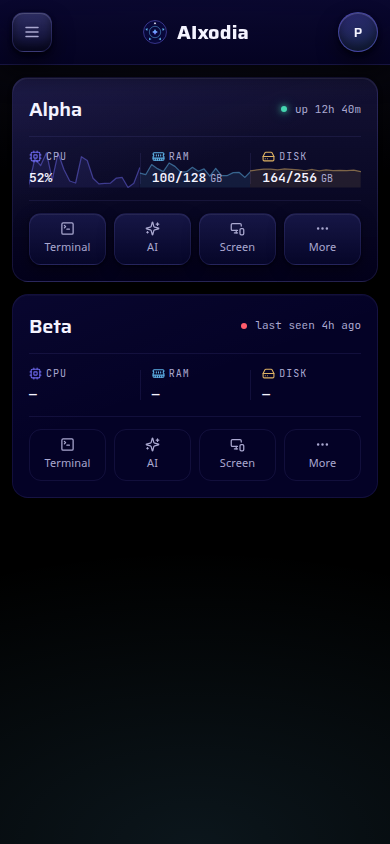
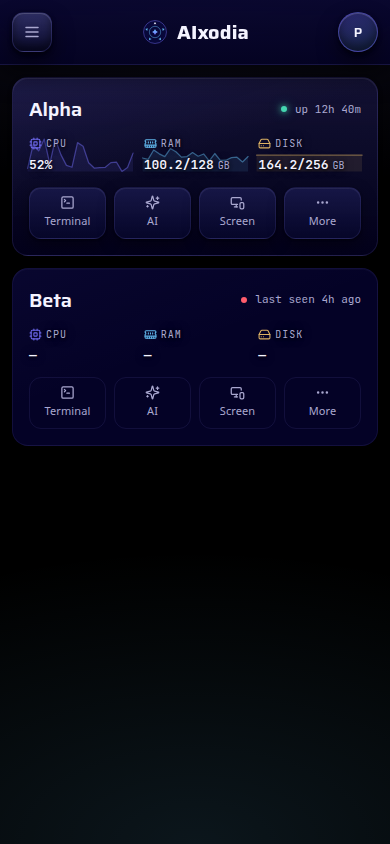
Bleed the spark sideways, not vertically
Swap the bleed axis: the chart now reaches 6px past the text on the left and right
while keeping the cell's full height, so the line overshoots the letters across
but not above or below. The geometry audit flags the 6px spill by design; it stops
inside the card's padding.

diff --git a/src/mock/mock.css b/src/mock/mock.css
@@ -386,7 +386,7 @@ button:disabled { cursor: not-allowed; }
 /* --------------------------------------------------------------- metrics */
 
 .metrics {
-  --spark-bleed: 10px;
+  --spark-bleed: 6px;
   display: grid;
   /* Equal thirds: a reading that is wider than its panel is worse than one a
      little smaller, so the value below scales with the viewport instead. */
@@ -412,12 +412,12 @@ button:disabled { cursor: not-allowed; }
    is decoration: never clickable, never in the accessibility tree. */
 .metric-spark {
   position: absolute;
-  /* Bleeds past the label above and the reading below: the line is the shape of
-     the history, not a box drawn around the letters. The height is explicit
-     because a viewBox'd SVG otherwise takes its intrinsic square ratio. */
-  inset: calc(var(--spark-bleed) * -1) 0;
-  width: 100%;
-  height: calc(100% + var(--spark-bleed) * 2);
+  /* Bleeds out sideways past the letters: the line is the shape of the history,
+     not a box drawn around the column. Both dimensions are explicit because a
+     viewBox'd SVG otherwise takes its intrinsic square ratio. */
+  inset: 0 calc(var(--spark-bleed) * -1);
+  width: calc(100% + var(--spark-bleed) * 2);
+  height: 100%;
   pointer-events: none;
   color: var(--accent);
 }

diff --git a/docs/ux-visual/verification/mock.md b/docs/ux-visual/verification/mock.md
@@ -619,3 +619,19 @@ the label top (136) — and its floor is `y179.8` — 5.3px below the value bott
 The height has to be explicit: a `viewBox`-sized SVG with only insets falls back to
 its 1:1 intrinsic ratio and renders 102px tall in a 38px cell. Audits clean at 320,
 360, 390, 430 and 1440; the 10px bleed stays inside the 12px gap above the actions.
+
+## Round 32 — sideways, not up and down
+
+The bleed is horizontal: `--spark-bleed: 6px`, `.metric-spark { inset: 0 -6px;
+width: calc(100% + 12px); height: 100% }`. The vertical bleed from round 31 is
+reverted; the chart keeps the cell's full height and the line stays inside the
+text block top to bottom.
+
+Measured at 390: cell `29–132`, chart `23–138` — 6px past the letters on each
+side, and the three chart boxes meet exactly at the 12px column gap (ink still
+shows ~9px of air because the line keeps its own 4% side inset).
+
+The geometry audit now reports a deliberate `spillPx: 6` on `.metrics` and each
+`.metric`: that is the requested overshoot. It is inside the card's 16px padding,
+so nothing is clipped and nothing leaves the card. `pageScrollY 0` and
+`pageOverflowX 0` at 320, 360, 390, 430 and 1440.
